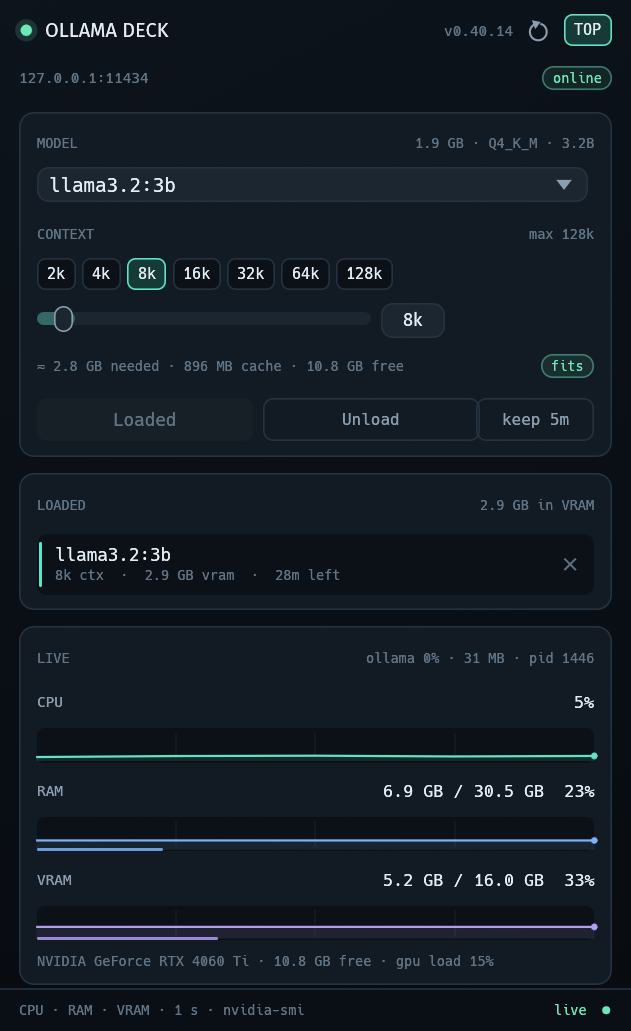
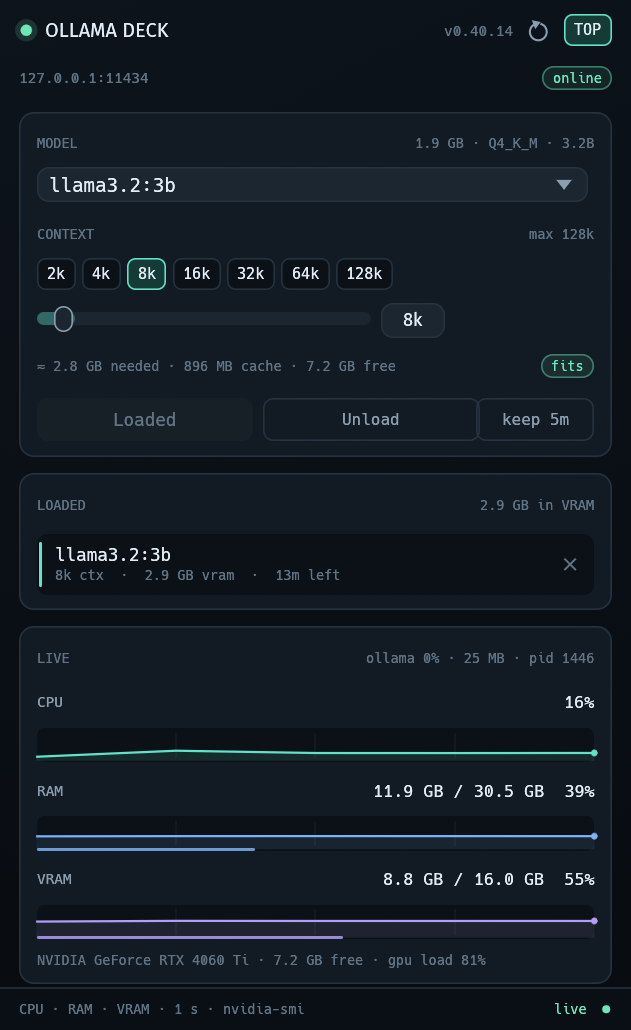
Prove the install works: smoke-test the build, document the errors
The one-line installer now also checks the downloaded binary starts, so a
build for the wrong machine cannot be reported as installed. CI runs
--version and --help on every build, and the README names each install
error a person can hit and what to do about it.

diff --git a/README.md b/README.md
@@ -62,13 +62,34 @@ wget -qO- https://raw.githubusercontent.com/mjb73/ollama-deck/main/get.sh | sh
 ```
 
 The installer tries `curl` first and falls back to `wget` automatically. It also picks the newest
-release that actually contains the download, verifies the published SHA-256 checksum, and prints
-the release page with the direct asset link if something fails. When installing by hand,
-download `ollama-deck-linux-x86_64.tar.gz` from the latest release, unpack it and run the
-`ollama-deck` file inside.
+release that actually contains the download, checks the published SHA-256 checksum, starts the
+downloaded program once to prove it runs on this machine, and prints the release page with the
+direct asset link if something fails. Nothing is changed on your computer unless all of that
+succeeds.
+
+Check it afterwards:
+
+```bash
+ollama-deck --version
+```
+
+When installing by hand, download `ollama-deck-linux-x86_64.tar.gz` from the latest release,
+unpack it and run the `ollama-deck` file inside.
 
 The prebuilt binary is for 64-bit Linux (x86_64) and needs a reasonably current glibc
 (Ubuntu 22.04 or newer, Debian 12+, Fedora 37+, Arch). On other systems, build from source below.
+
+### If the one-line install stops with an error
+
+- **"the download did not work"** — the newest release had no file attached yet (a build can be
+  uploading for a minute) or GitHub was unreachable. The message names the exact address to open
+  in a browser. Wait a minute and run the same line again.
+- **"could not open a window"** or a warning about missing libraries — the desktop is missing
+  OpenGL or X11/KDE libraries. The installer prints the package command for your distribution.
+- **"needs a newer system library"** — the distribution is older than the build machine. The
+  message gives the two-line source build, which needs Rust.
+- **`ollama-deck: command not found`** — `~/.local/bin` is not on your `PATH`. Start the app from
+  the application menu, or run `~/.local/bin/ollama-deck`.
 
 ### From source
 
@@ -147,6 +168,7 @@ it is close enough to choose a context size with.
 ```bash
 cargo run
 cargo run -- --screenshot shot.png   # draw the window, save a PNG, exit
+cargo run -- --version               # print the version, exit
 ```
 
 ## Fonts
